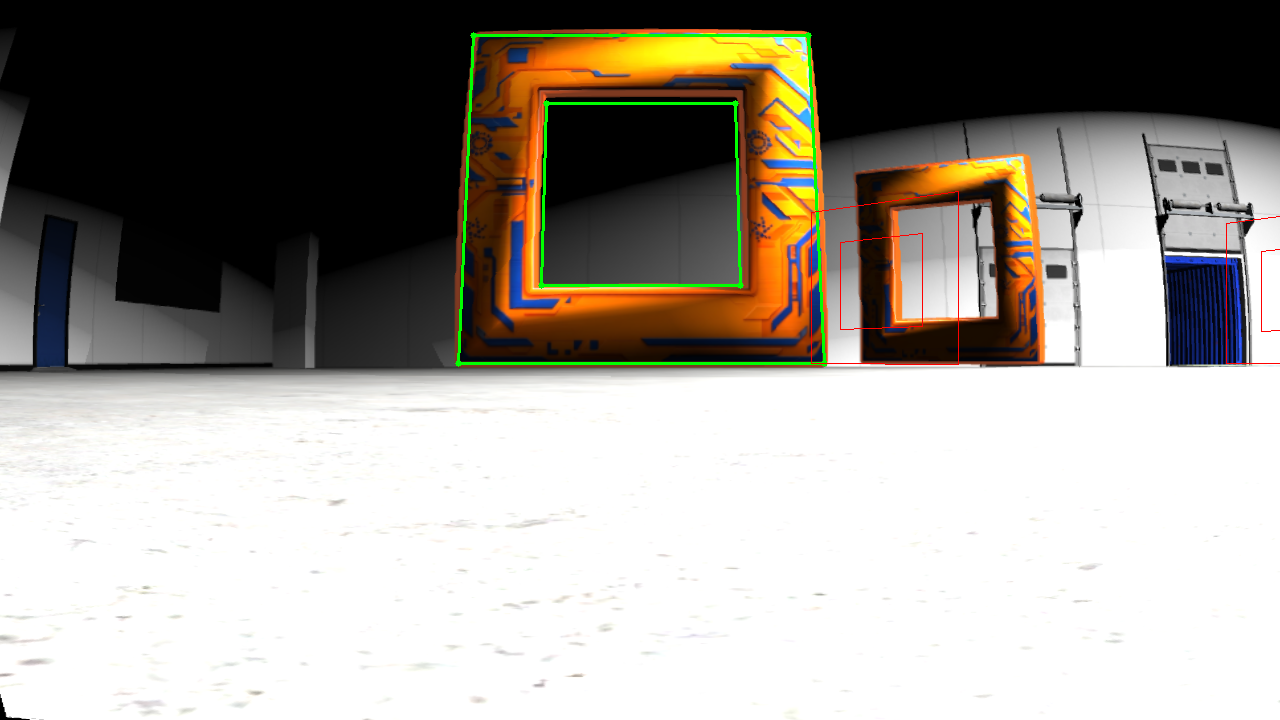
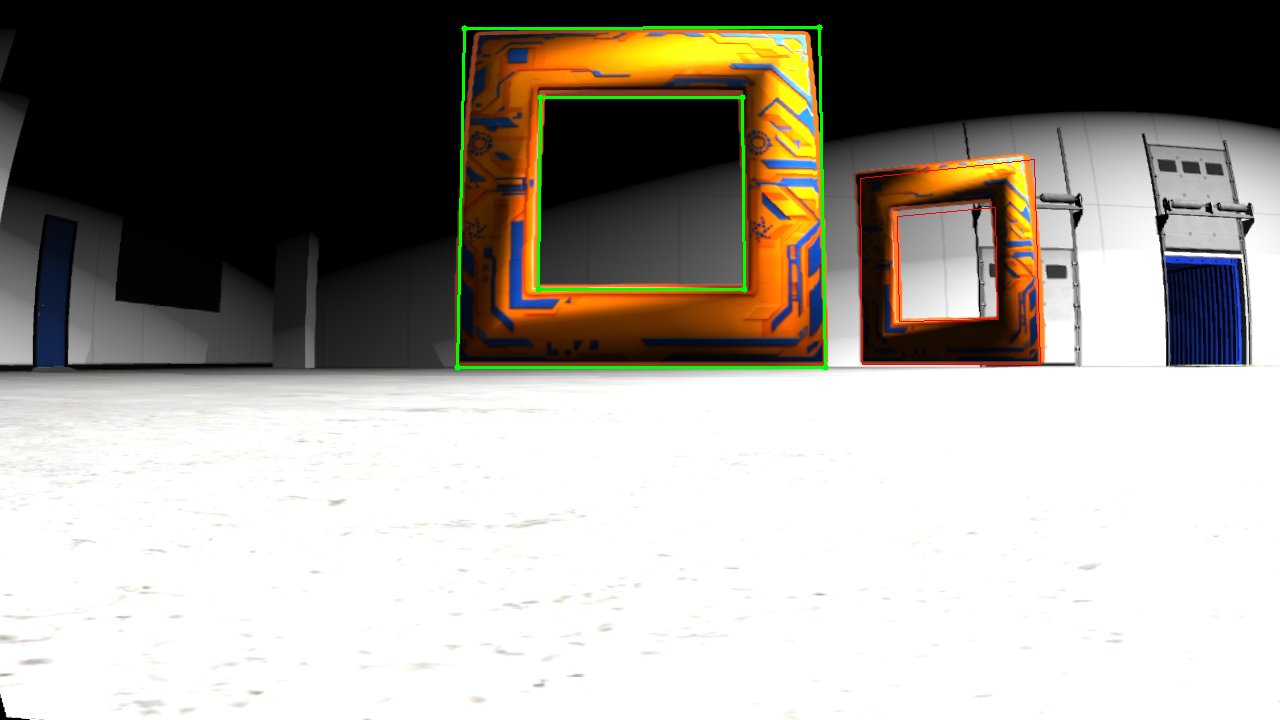
pretty sure camera intrinsics and/or distortion are wrong, have checked basically everything else

Changed region(s): [[0.3438, 0.0306, 0.6562, 0.5194], [0.4062, 0.1222, 0.5938, 0.4278], [0.7188, 0.4278, 0.75, 0.4583]]

diff --git a/mav_bringup/launch/mav_init.launch.py b/mav_bringup/launch/mav_init.launch.py
@@ -8,8 +8,17 @@ Launches Gazebo (a2rl_track world), ros_gz_bridge, and spawns the drone.
 import os
 
 from launch import LaunchDescription
-from launch.actions import DeclareLaunchArgument, IncludeLaunchDescription, SetEnvironmentVariable, TimerAction
-from launch.substitutions import LaunchConfiguration, PathJoinSubstitution, TextSubstitution
+from launch.actions import (
+    DeclareLaunchArgument,
+    IncludeLaunchDescription,
+    SetEnvironmentVariable,
+    TimerAction,
+)
+from launch.substitutions import (
+    LaunchConfiguration,
+    PathJoinSubstitution,
+    TextSubstitution,
+)
 from launch.launch_description_sources import PythonLaunchDescriptionSource
 from launch_ros.actions import Node
 from launch_ros.substitutions import FindPackageShare
@@ -18,137 +27,154 @@ from ament_index_python.packages import get_package_share_directory
 
 
 def generate_launch_description():
-    pkg_share = get_package_share_directory('mav_gazebo')
-    mav_desc_share = get_package_share_directory('mav_description')
+    pkg_share = get_package_share_directory("mav_gazebo")
+    mav_desc_share = get_package_share_directory("mav_description")
     # Absolute paths so Gazebo and any subprocess resolve model:// reliably
-    mav_gazebo_models = os.path.abspath(os.path.join(pkg_share, 'models'))
-    mav_desc_models = os.path.abspath(os.path.join(mav_desc_share, 'models'))
-    current = os.environ.get('GZ_SIM_RESOURCE_PATH', '')
+    mav_gazebo_models = os.path.abspath(os.path.join(pkg_share, "models"))
+    mav_desc_models = os.path.abspath(os.path.join(mav_desc_share, "models"))
+    current = os.environ.get("GZ_SIM_RESOURCE_PATH", "")
     # mav_desc_models first so model://X3 in world resolves to mav_description/models/X3
-    new_resource_path = mav_desc_models + ':' + mav_gazebo_models + (':' + current if current else '')
+    new_resource_path = (
+        mav_desc_models + ":" + mav_gazebo_models + (":" + current if current else "")
+    )
 
     set_gz_resource_path = SetEnvironmentVariable(
-        'GZ_SIM_RESOURCE_PATH',
+        "GZ_SIM_RESOURCE_PATH",
         new_resource_path,
     )
     # Use Fortress (gz-sim 8)
     set_gz_version = SetEnvironmentVariable(
-        name='GZ_SIM_VERSION',
-        value='8',
+        name="GZ_SIM_VERSION",
+        value="8",
     )
-    
+
     use_sim_time_arg = DeclareLaunchArgument(
-        'use_sim_time',
-        default_value='true',
-        description='Use simulation time',
+        "use_sim_time",
+        default_value="true",
+        description="Use simulation time",
     )
     world_name_arg = DeclareLaunchArgument(
-        'world_name',
-        default_value='x3_illini_warehouse.world',
-        description='World filename in mav_gazebo/worlds/ (e.g. x3_illini_warehouse.world, x3_illini_pavilion.world)',
+        "world_name",
+        default_value="x3_illini_warehouse.world",
+        description="World filename in mav_gazebo/worlds/ (e.g. x3_illini_warehouse.world, x3_illini_pavilion.world)",
     )
 
-    use_sim_time = LaunchConfiguration('use_sim_time')
-    world_name = LaunchConfiguration('world_name')
+    use_sim_time = LaunchConfiguration("use_sim_time")
+    world_name = LaunchConfiguration("world_name")
 
     # Load the SDF file from "description" package
-    sdf_file = os.path.join(mav_desc_share, 'models', 'X3', 'model.sdf')
-    with open(sdf_file, 'r') as infp:
+    sdf_file = os.path.join(mav_desc_share, "models", "X3", "model.sdf")
+    with open(sdf_file, "r") as infp:
         robot_desc = infp.read()
     # RViz does not resolve model://; use package:// so meshes load in RViz
-    robot_desc = robot_desc.replace('model://X3/', 'package://mav_description/models/X3/')
-
+    robot_desc = robot_desc.replace(
+        "model://X3/", "package://mav_description/models/X3/"
+    )
 
     # Gazebo: world path from world_name argument (only this world is loaded).
     # If the GUI requests a different world name, it is using a cached config; clear
     # ~/.ignition/gazebo/gui.config and relaunch.
-    world_path = PathJoinSubstitution([
-        FindPackageShare('mav_gazebo'),
-        'worlds',
-        world_name,
-    ])
+    world_path = PathJoinSubstitution(
+        [
+            FindPackageShare("mav_gazebo"),
+            "worlds",
+            world_name,
+        ]
+    )
     gz_sim_launch = IncludeLaunchDescription(
-        PythonLaunchDescriptionSource([
-            PathJoinSubstitution([
-                FindPackageShare('ros_gz_sim'),
-                'launch',
-                'gz_sim.launch.py',
-            ])
-        ]),
+        PythonLaunchDescriptionSource(
+            [
+                PathJoinSubstitution(
+                    [
+                        FindPackageShare("ros_gz_sim"),
+                        "launch",
+                        "gz_sim.launch.py",
+                    ]
+                )
+            ]
+        ),
         launch_arguments=[
-            # ('gz_args', [TextSubstitution(text='-r -v 4 '), world_path]),
+            # ("gz_args", [TextSubstitution(text="-r -v 4 "), world_path]),
             # NOTE: -s to run headless
             ('gz_args', [TextSubstitution(text='-s -r -v 4 '), world_path]),
         ],
     )
 
     robot_state_publisher = Node(
-        package='robot_state_publisher',
-        executable='robot_state_publisher',
-        name='robot_state_publisher',
-        output='screen',
+        package="robot_state_publisher",
+        executable="robot_state_publisher",
+        name="robot_state_publisher",
+        output="screen",
         parameters=[
-            {'use_sim_time': use_sim_time},
-            {'robot_description': robot_desc},
+            {"use_sim_time": use_sim_time},
+            {"robot_description": robot_desc},
         ],
     )
 
     # ros_gz_bridge (like gem_init)
-    bridge_params = PathJoinSubstitution([
-        FindPackageShare('mav_gazebo'),
-        'config',
-        'gz_bridge.yaml',
-    ])
+    bridge_params = PathJoinSubstitution(
+        [
+            FindPackageShare("mav_gazebo"),
+            "config",
+            "gz_bridge.yaml",
+        ]
+    )
     ros_gz_bridge = Node(
-        package='ros_gz_bridge',
-        executable='bridge_node',
-        name='gz_bridge',
-        parameters=[{'config_file': bridge_params}],
-        output='screen',
+        package="ros_gz_bridge",
+        executable="bridge_node",
+        name="gz_bridge",
+        parameters=[{"config_file": bridge_params}],
+        output="screen",
     )
 
     # Publish world->odom (static) and odom->base_link TF; namespace X3 -> frames X3/odom, topic /X3/odom
     odom_to_tf_node = Node(
-        package='mav_gazebo',
-        executable='odom_to_tf.py',
-        name='odom_to_tf',
-        namespace='X3',
-        parameters=[{'use_sim_time': use_sim_time}],
-        output='screen',
+        package="mav_gazebo",
+        executable="odom_to_tf.py",
+        name="odom_to_tf",
+        namespace="X3",
+        parameters=[{"use_sim_time": use_sim_time}],
+        output="screen",
     )
 
     # Bridge Gazebo camera image to ROS (gz topic -> ROS topic; ref: gem_init.launch.py)
     ros_gz_image_bridge = Node(
-        package='ros_gz_image',
-        executable='image_bridge',
-        name='image_bridge',
+        package="ros_gz_image",
+        executable="image_bridge",
+        name="image_bridge",
         arguments=[
-            '/image_raw',
+            "/image_raw",
         ],
         remappings=[
-            ('/image_raw', '/X3/camera/image_raw'),
+            ("/image_raw", "/X3/camera/image_raw"),
         ],
-        parameters=[{'use_sim_time': use_sim_time}],
-        output='screen',
+        parameters=[{"use_sim_time": use_sim_time}],
+        output="screen",
     )
 
     # Visualize in RViz
     rviz = Node(
-       package='rviz2',
-       executable='rviz2',
-       arguments=['-d', os.path.join(get_package_share_directory('mav_description'), 'rviz', 'mav.rviz')],
+        package="rviz2",
+        executable="rviz2",
+        arguments=[
+            "-d",
+            os.path.join(
+                get_package_share_directory("mav_description"), "rviz", "mav.rviz"
+            ),
+        ],
     )
 
-   
-    return LaunchDescription([
-        set_gz_resource_path,
-        set_gz_version,
-        use_sim_time_arg,
-        world_name_arg,
-        gz_sim_launch,
-        ros_gz_bridge,
-        ros_gz_image_bridge,
-        odom_to_tf_node,
-        robot_state_publisher,
-        # rviz,
-    ])
+    return LaunchDescription(
+        [
+            set_gz_resource_path,
+            set_gz_version,
+            use_sim_time_arg,
+            world_name_arg,
+            gz_sim_launch,
+            ros_gz_bridge,
+            ros_gz_image_bridge,
+            odom_to_tf_node,
+            robot_state_publisher,
+            # rviz,
+        ]
+    )

diff --git a/point_label_rand_test.py b/point_label_rand_test.py
@@ -37,7 +37,9 @@ class GateVisualTester(Node):
         #     [0, 0, 1]
         # ], dtype=np.float32)
         self.K = np.array(
-            [[834.0615, 0, 640], [0, 834.0616, 360], [0, 0, 1]], dtype=np.float32
+            # [[834.0615, 0, 640], [0, 834.0616, 360], [0, 0, 1]], dtype=np.float32
+            [[1100, 0, 640], [0, 1050, 360], [0, 0, 1]],
+            dtype=np.float32,
         )
 
         self.img_dir = os.path.expanduser("~/git_repos/mav_simulator/test_projections")
@@ -158,6 +160,7 @@ class GateVisualTester(Node):
 
         ### pitch down
         pitch_offset = math.radians(30.0)
+        # pitch_offset = math.radians(0)
 
         # Convert Euler angles [roll, pitch, yaw] to a quaternion [x, y, z, w]
         drone_rotation = R.from_euler("xyz", [0.0, pitch_offset, look_at_yaw])
@@ -240,6 +243,30 @@ class GateVisualTester(Node):
         self.get_logger().warn("Teleport verification timeout")
         return False, None
 
+    def stereographic_project(self, pts_cam, fx, fy, cx, cy, k1, k2):
+        x = pts_cam[:, 0]
+        y = pts_cam[:, 1]
+        z = pts_cam[:, 2]
+
+        # Normalized camera coordinates
+        xn = x / z
+        yn = y / z
+
+        r2 = xn**2 + yn**2
+
+        # Radial distortion factor (barrel distortion typically has a negative k1)
+        distortion_factor = 1.0 + k1 * r2 + k2 * (r2**2)
+
+        # Apply distortion to normalized coordinates
+        xd = xn * distortion_factor
+        yd = yn * distortion_factor
+
+        # Convert distorted normalized coordinates to pixels using your tuned focal lengths
+        u = cx + fx * xd
+        v = cy + fy * yd
+
+        return np.column_stack((u, v))
+
     def run(self):
         for i, gate in enumerate(self.config["world_layout"]):
             self.get_logger().info(f"=== Section: Processing Gate {i+1} ===")
@@ -278,7 +305,7 @@ class GateVisualTester(Node):
             t_bc = np.array([-0.0015, 0.00604, 0.0623])
 
             # t_bc = np.array([
-            #     -0.0015 ,       # Cam X - Base X
+            # -0.0015 ,       # Cam X - Base X
             #     0.00604,      # Cam Y - Base Y
             #     0.0623 - 0.053302   # Cam Z - Base Z (The culprit!)
             # ])
@@ -307,49 +334,52 @@ class GateVisualTester(Node):
                 if np.any(pts_in_cam[:, 2] < 0.2):
                     continue
 
-                distortion = np.zeros(5)
-                # distortion = np.array(
-                #     [-0.25390268, 0.06240127, -0.00113674, 0.00213326, 0.0],
-                #     dtype=np.float32,
-                # )
+                # distortion = np.zeros(5)
+                distortion = np.array(
+                    # [-0.25390268, 0.06240127, -0.00113674, 0.00213326, 0.0],
+                    [-0.35, 0.06240127, -0.00113674, 0.00213326, 0.0],
+                    dtype=np.float32,
+                )
+
                 img_pts, _ = cv2.projectPoints(
                     world_pts, rvec, tvec, self.K, distortion
                 )
+                # img_pts = self.stereographic_project(
+                #     pts_in_cam,
+                #     self.K[0, 0],
+                #     self.K[1, 1],
+                #     self.K[0, 2],
+                #     self.K[1, 2],
+                #     distortion[0],
+                #     distortion[1],
+                # )
                 img_pts = img_pts.reshape(-1, 2)
                 pixels = [(int(round(pt[0])), int(round(pt[1]))) for pt in img_pts]
 
                 if is_target:
-                    object_points = np.array(world_pts[:4], dtype=np.float32)
-                    # 2. The actual pixel keypoints you measured from the image
-                    # Shape: (N, 2)
-                    image_points = np.array(
+
+                    test_cam_points = np.array(
                         [
-                            [457, 364],  # Actual BL
-                            [825, 364],  # Actual BR
-                            [804, 34],  # Actual TR
-                            [477, 34],  # Actual TL
-                            # [533, 289], # Actual IBL
-                            # [749, 289], # Actual IBR
-                            # [745, 90], # Actual ITR
-                            # [539, 90], # Actual ITL
+                            [0, 0, 5],
+                            [1, 0, 5],
+                            [-1, 0, 5],
+                            [0, 1, 5],
+                            [0, -1, 5],
                         ],
-                        dtype=np.float32,
+                        dtype=np.float64,
                     )
 
-                    # 3. Solve PnP to find the exact camera pose that maps world -> pixels
-                    success, rvec_pnp, tvec_pnp = cv2.solvePnP(
-                        object_points, image_points, self.K, None
+                    test_img_points, _ = cv2.projectPoints(
+                        test_cam_points,
+                        np.zeros((3, 1)),
+                        np.zeros((3, 1)),
+                        self.K,
+                        distortion,
                     )
 
-                    print("PnP tvec:", tvec_pnp.flatten())
-                    print("My calculated tvec:", tvec.flatten())
-
-                    # img_pts, _ = cv2.projectPoints(
-                    #     world_pts, rvec_pnp, tvec_pnp, self.K, distortion
-                    # )
-                    # img_pts = img_pts.reshape(-1, 2)
-                    # pixels = [(int(round(pt[0])), int(round(pt[1]))) for pt in img_pts]
-                    # ### end of debug
+                    test_world_points = (
+                        R_wc @ (R_gz_to_rdf.T @ test_cam_points.T)
+                    ).T + t_wc
 
                     color = (0, 255, 0)
                     thickness = 2
